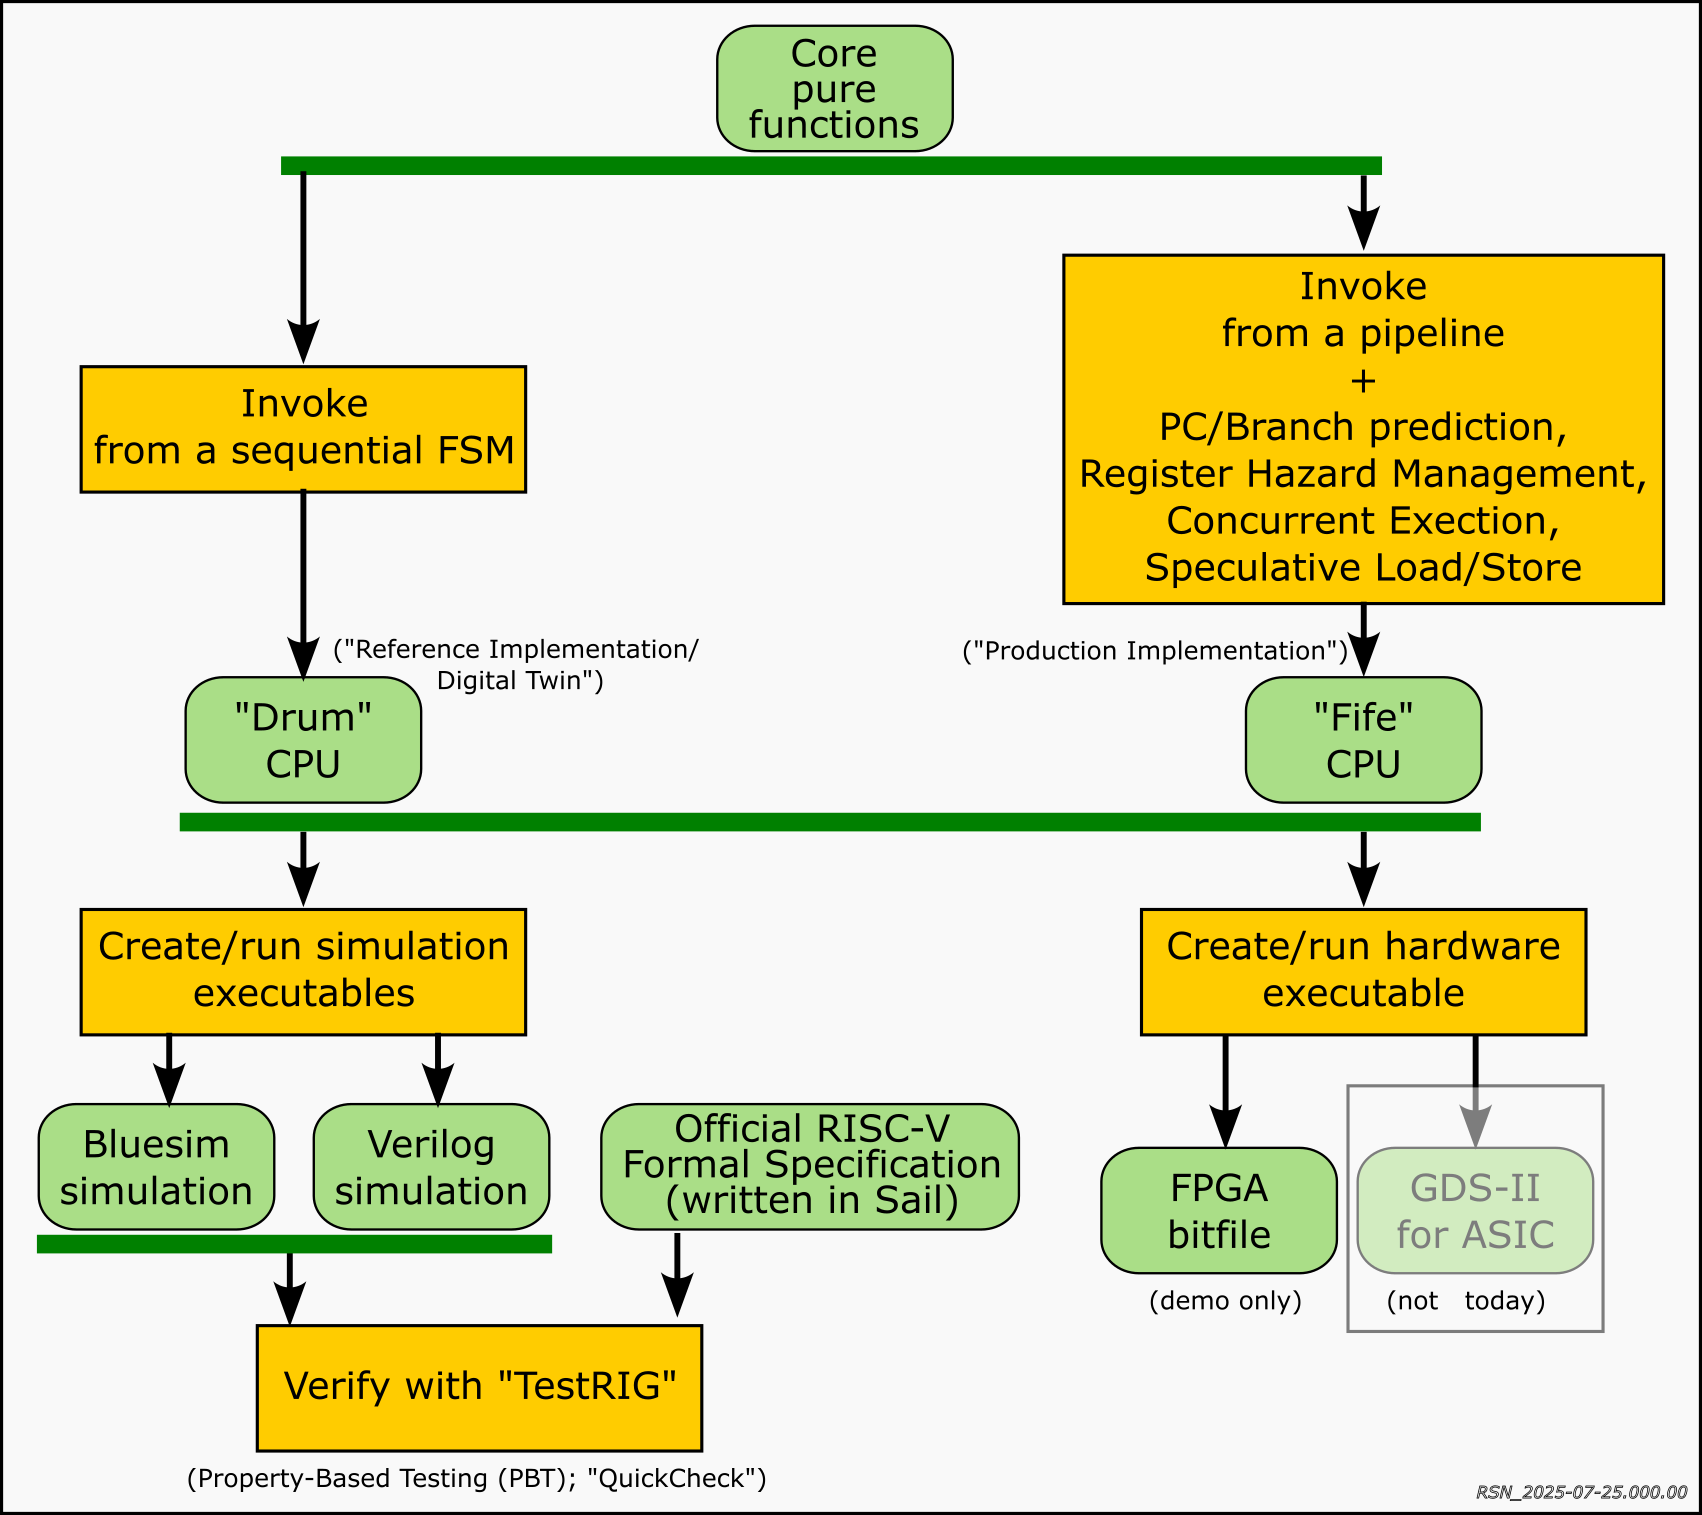
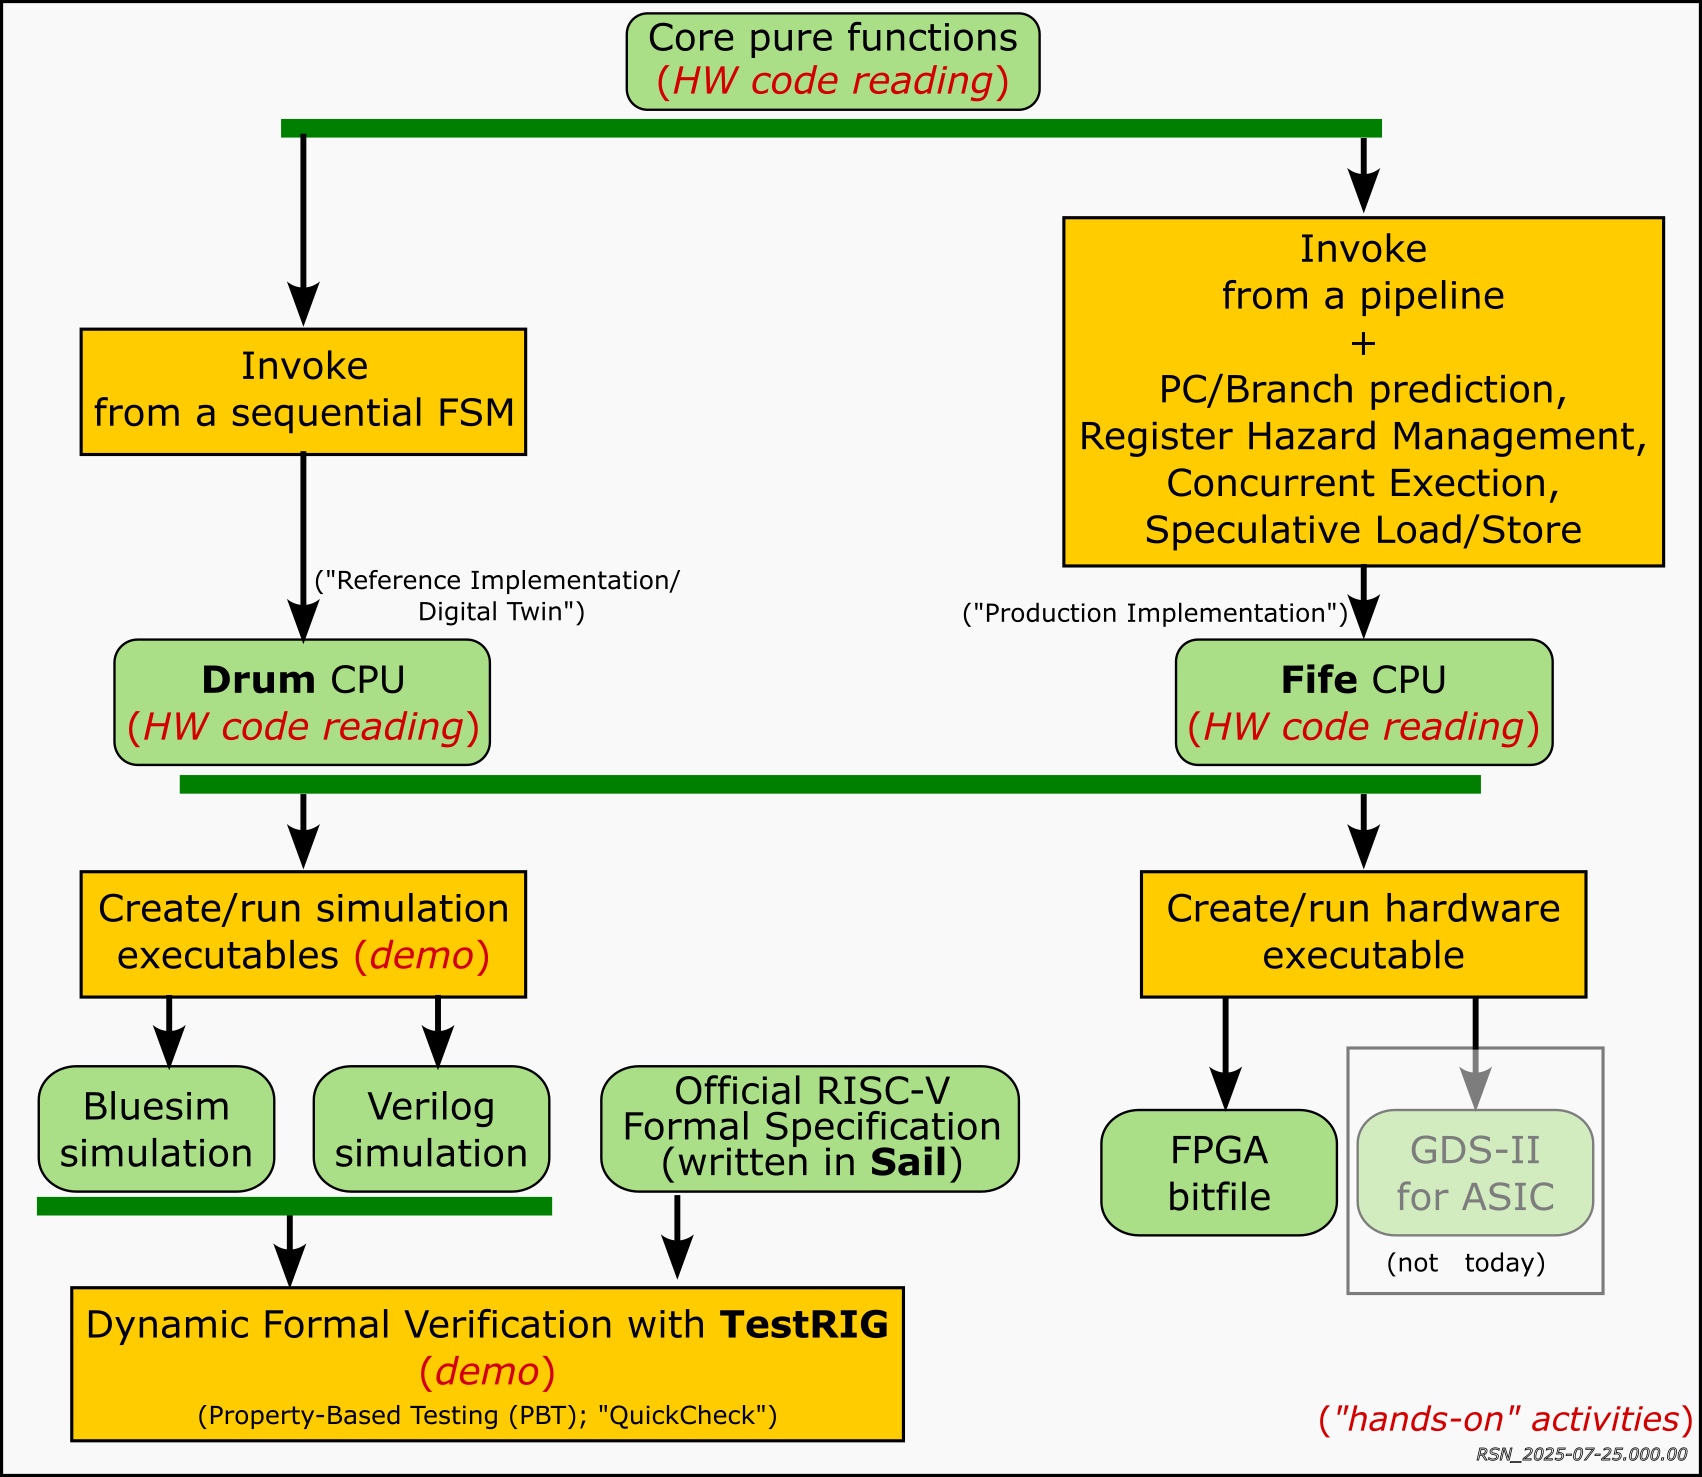
Small stylistic tweaks to documentation: README, Resourcs

diff --git a/Doc/Resources.html b/Doc/Resources.html
@@ -441,8 +441,8 @@ body.book #toc,body.book #preamble,body.book h1.sect0,body.book .sect1>h2{page-b
 <h1>Resources for tutorial "Learn to Design and Verify a 6-stage pipelined RISC-V CPU"</h1>
 <div class="details">
 <span id="author" class="author">(c) Rishiyur S. Nikhil, Bluespec, Inc. 2025</span><br>
-<span id="revnumber">version v0.910,</span>
-<span id="revdate">2025-08-27</span>
+<span id="revnumber">version v0.920,</span>
+<span id="revdate">2025-10-14</span>
 </div>
 </div>
 <div id="content">
@@ -459,8 +459,8 @@ body.book #toc,body.book #preamble,body.book h1.sect0,body.book .sect1>h2{page-b
 <p>This document&#8217;s source is <code>Resources.adoc</code> and can be read as-is in a
 text-editor or terminal.  It can also be processed with the free,
 open-source <code>asciidoctor</code> tool into <code>Resources.html</code> and viewed in any
-browser.  GitHub will automatically process and display .adoc
-documents.</p>
+browser.<br>
+On GitHub, <code>.adoc</code> files are rendered automatically.</p>
 </div>
 </td>
 </tr>
@@ -470,7 +470,7 @@ documents.</p>
 <div id="toctitle" class="title">Contents</div>
 <ul class="sectlevel1">
 <li><a href="#_introduction">1. Introduction</a></li>
-<li><a href="#sec_book_repo">2. Drum and Fife hardware design source code, textbook, and more</a></li>
+<li><a href="#sec_book_repo">2. <strong>Fife</strong> and <strong>Drum</strong> hardware design source code, textbook, and more</a></li>
 <li><a href="#sec_bsc">3. <strong>bsc</strong> compiler (for Bluespec <strong>BSV</strong> High-Level Hardware Description Language)</a></li>
 <li><a href="#sec_verilator">4. Verilog simulation with <strong>verilator</strong> or other Verilog simulator tool</a>
 <ul class="sectlevel2">
@@ -486,7 +486,7 @@ documents.</p>
 <li><a href="#_building_qcvengine_with_the_ghc_haskell_compiler">5.2.2. Building <strong>QCVEngine</strong> with the <strong>ghc</strong> Haskell compiler</a></li>
 </ul>
 </li>
-<li><a href="#_official_sail_risc_v_formal_specification">5.3. Official <strong>Sail RISC-V Formal Specification</strong></a>
+<li><a href="#_official_risc_v_formal_specification_written_in_sail">5.3. Official <strong>RISC-V Formal Specification</strong> (written in <strong>Sail</strong>)</a>
 <ul class="sectlevel3">
 <li><a href="#_installing_the_ocaml_system_including_the_sail_compiler">5.3.1. Installing the <strong>OCaml</strong> system (including the <strong>Sail</strong> compiler)</a></li>
 <li><a href="#_building_sail_risc_v_formal_specification_simulator_with_sail_compiler">5.3.2. Building <strong>Sail RISC-V Formal Specification</strong> simulator with <strong>Sail</strong> compiler</a></li>
@@ -574,29 +574,29 @@ do more of the "hands-on" activities:</p>
 <div class="olist arabic">
 <ol class="arabic">
 <li>
-<p><code>git clone</code> a repo for Drum and Fife code (Section
-<a href="#sec_book_repo">Drum and Fife hardware design source code, textbook, and more</a>), textbook, etc.</p>
+<p><code>git clone</code> a repo for <strong>Fife</strong> and <strong>Drum</strong> code (Section
+<a href="#sec_book_repo"><strong>Fife</strong> and <strong>Drum</strong> hardware design source code, textbook, and more</a>), textbook, etc.</p>
 <div class="paragraph">
-<p>This enables you to read all Drum and Fife hardware design code.</p>
+<p>This enables you to read all <strong>Fife</strong> and <strong>Drum</strong> hardware design code.</p>
 </div>
 </li>
 <li>
 <p>Download and install the <strong>bsc</strong> compiler (Section <a href="#sec_bsc"><strong>bsc</strong> compiler (for Bluespec <strong>BSV</strong> High-Level Hardware Description Language)</a>).</p>
 <div class="paragraph">
-<p>This enables you to compile and run Bluesim simulations of Drum and Fife.</p>
+<p>This enables you to compile and run Bluesim simulations of <strong>Fife</strong> and <strong>Drum</strong>.</p>
 </div>
 </li>
 <li>
 <p><code>git clone</code> and install <strong>TestRIG</strong> (Section <a href="#sec_testrig"><strong>TestRIG</strong> tool for property-based testing of RISC-V CPUs</a>).</p>
 <div class="paragraph">
-<p>This enables using <strong>TestRIG</strong> on Drum and Fife using Bluesim simulation.</p>
+<p>This enables using <strong>TestRIG</strong> on <strong>Fife</strong> and <strong>Drum</strong> using Bluesim simulation.</p>
 </div>
 </li>
 <li>
 <p><code>git clone</code> and install <strong>Verilator</strong> (Section
 <a href="#sec_verilator">Verilog simulation with <strong>verilator</strong> or other Verilog simulator tool</a>).</p>
 <div class="paragraph">
-<p>This enables you to compile and run Verilog simulations of Drum and Fife, and <strong>TestRIG</strong>.</p>
+<p>This enables you to compile and run Verilog simulations of <strong>Fife</strong> and <strong>Drum</strong>, and <strong>TestRIG</strong>.</p>
 </div>
 </li>
 </ol>
@@ -604,7 +604,7 @@ do more of the "hands-on" activities:</p>
 </div>
 </div>
 <div class="sect1">
-<h2 id="sec_book_repo">2. Drum and Fife hardware design source code, textbook, and more</h2>
+<h2 id="sec_book_repo">2. <strong>Fife</strong> and <strong>Drum</strong> hardware design source code, textbook, and more</h2>
 <div class="sectionbody">
 <div class="paragraph">
 <p>Please <code>git clone</code> the following repository to your laptop:</p>
@@ -618,19 +618,19 @@ do more of the "hands-on" activities:</p>
 <div class="ulist">
 <ul>
 <li>
-<p>All the hardware design source code for the Drum and Fife CPUs (in
+<p>All the hardware design source code for the <strong>Fife</strong> and <strong>Drum</strong> CPUs (in
 the <code>Code/src_*</code>) directories.</p>
 </li>
 <li>
 <p>Makefiles to build standalone Bluesim and Verilator simulations of
-Drum and Fife, ready to execute RISC-V RV32i binaries.</p>
+<strong>Fife</strong> and <strong>Drum</strong>, ready to execute RISC-V RV32i binaries.</p>
 </li>
 <li>
 <p>Documentation in the <code>Doc/</code> directory.</p>
 </li>
 <li>
 <p>Additional source code and Makefile in the <code>TestRIG/</code> directory
-providing a wrapper for Drum and Fife to be plugged into <strong>TestRIG</strong>.</p>
+providing a wrapper for <strong>Fife</strong> and <strong>Drum</strong> to be plugged into <strong>TestRIG</strong>.</p>
 </li>
 <li>
 <p>A 300 page PDF textbook: <code>Book_BLang_RISCV.pdf</code></p>
@@ -648,10 +648,10 @@ graduate-level university course.</p>
 <h2 id="sec_bsc">3. <strong>bsc</strong> compiler (for Bluespec <strong>BSV</strong> High-Level Hardware Description Language)</h2>
 <div class="sectionbody">
 <div class="paragraph">
-<p>This tool is sufficient for compiling and building the Drum and Fife
+<p>This tool is sufficient for compiling and building the <strong>Fife</strong> and <strong>Drum</strong>
 CPUs into a native-code simulator ("Bluesim") and running them. It is
 also sufficient for compiling and building the <strong>TestRIG</strong> wrapper for
-Drum and Fife.</p>
+<strong>Fife</strong> and <strong>Drum</strong>.</p>
 </div>
 <div class="paragraph">
 <p>Bluesim is 100% cycle-accurate to Verilog simulation, and can also
@@ -683,8 +683,8 @@ will need to install the <strong>ghc</strong> Haskell compiler (Section <a href=
 <h2 id="sec_verilator">4. Verilog simulation with <strong>verilator</strong> or other Verilog simulator tool</h2>
 <div class="sectionbody">
 <div class="paragraph">
-<p>This section is needed if you plan use Verilog simulation for Drum and
-Fife, and can be skipped otherwise.</p>
+<p>This section is needed if you plan use Verilog simulation for <strong>Fife</strong>
+and <strong>Drum</strong>, and can be skipped otherwise.</p>
 </div>
 <div class="paragraph">
 <p>All simulations in this tutorial can be performed with Bluesim, and
@@ -696,13 +696,13 @@ therefore Verilog simulation is not strictly necessary.  However:</p>
 <p>You may wish to examine <strong>bsc</strong>-generated Verilog.</p>
 </li>
 <li>
-<p>You wish to plug Drum or Fife Verilog into your own Verilog SoC.</p>
+<p>You wish to plug <strong>Fife</strong> or <strong>Drum</strong> Verilog into your own Verilog SoC.</p>
 </li>
 <li>
-<p>You wish to go further with Drum or Fife Verilog into an FPGA or ASIC flow.</p>
+<p>You wish to go further with <strong>Drum</strong> or <strong>Fife</strong> Verilog into an FPGA or ASIC flow.</p>
 </li>
 <li>
-<p>You may wish to take Drum or Fife Verilog through other
+<p>You may wish to take <strong>Fife</strong> or <strong>Drum</strong> Verilog through other
 Verilog-based tools (such as formal verification or other analysis
 tools).</p>
 </li>
@@ -779,7 +779,7 @@ vendor (which you may already have).</p>
 <div class="paragraph">
 <p>The actual Verilog generated is the same for all of them.  But our
 code imports some C code for the surrounding "SoC" environment around
-the Drum and Fife CPUs, and different Verilog simulators may use
+the <strong>Fife</strong> and <strong>Drum</strong> CPUs, and different Verilog simulators may use
 different conventions for importing C; the <code>-vsim &lt;simulator&gt;</code> flag
 tells <strong>bsc</strong> to use the appropriate C-import mechanism for each
 simulator.  Verilator uses standard SystemVerilog DPI mechanism, and
@@ -838,7 +838,7 @@ that can help you to install Python.</p>
 <div class="paragraph">
 <p><strong>TestRIG</strong> uses a sub-program called <strong>QCVengine</strong> ("QuickCheck
 Verification Engine") to generate random test programs for execution
-on Drum and Fife and Sail, and to verify the responses. <strong>QCVengine</strong> is
+on <strong>Fife</strong> and <strong>Drum</strong> and <strong>Sail</strong>, and to verify the responses. <strong>QCVengine</strong> is
 written in Haskell, and uses the famous "QuickCheck" library for test
 generation and manipulation.  Thus, to build this, one needs to
 install the <strong>ghc</strong> Haskell compiler.</p>
@@ -868,16 +868,17 @@ compiler can be found at:</p>
 </div>
 </div>
 <div class="sect2">
-<h3 id="_official_sail_risc_v_formal_specification">5.3. Official <strong>Sail RISC-V Formal Specification</strong></h3>
+<h3 id="_official_risc_v_formal_specification_written_in_sail">5.3. Official <strong>RISC-V Formal Specification</strong> (written in <strong>Sail</strong>)</h3>
 <div class="paragraph">
 <p><strong>TestRIG</strong> can compare any two RISC-V implementations (simulations),
 "A" and "B".  In this tutorial, for "A" we use the official <strong>Sail
 RISC-V ISA Formal Specification</strong> which is compiled into an executable
-(simulation).  For "B" we use Drum or Fife in a wrapper for <strong>TestRIG</strong>.</p>
+(simulation).  For "B" we use <strong>Fife</strong> or <strong>Drum</strong> in a wrapper for
+<strong>TestRIG</strong>.</p>
 </div>
 <div class="paragraph">
 <p>The <strong>Sail RISC-V ISA Formal Specification</strong>, as its name implies, is
-written in the <strong>Sail</strong> language for formal ISA specifications. (Sail
+written in the <strong>Sail</strong> language for formal ISA specifications. (<strong>Sail</strong>
 has also been used for formal specs of other ISAs, such as ARM, POWER,
 x86, etc.)</p>
 </div>
@@ -885,9 +886,9 @@ x86, etc.)</p>
 <p>The <strong>Sail RISC-V ISA Formal Specification</strong> can be compiled into an
 executable, thereby providing a reference simulator for the RISC-V
 ISA.  The <strong>Sail</strong> compiler is written in <strong>OCaml</strong>, and is built as part
-of installing the <strong>OCaml</strong> system.  Thus, to build the Sail RISC-V
+of installing the <strong>OCaml</strong> system.  Thus, to build the <strong>Sail</strong> RISC-V
 simulator, one needs to install the <strong>OCaml</strong> system which also installs
-the Sail compiler.</p>
+the <strong>Sail</strong> compiler.</p>
 </div>
 <div class="sect3">
 <h4 id="_installing_the_ocaml_system_including_the_sail_compiler">5.3.1. Installing the <strong>OCaml</strong> system (including the <strong>Sail</strong> compiler)</h4>
@@ -943,9 +944,9 @@ confirm like this:</p>
 <p>You can practice building the simulator now, using the following command.</p>
 </div>
 <div class="paragraph">
-<p>However, we&#8217;ll need to edit the Sail code to configure it to support
-the same RISC-V configuration choices as Fife/Drum.  We will provide a
-patch for this edit closer to the date of the tutorial.</p>
+<p>However, we&#8217;ll need to edit the <strong>Sail</strong> code to configure it to support
+the same RISC-V configuration choices as <strong>Fife</strong> and <strong>Drum</strong>.  We will
+provide a patch for this edit closer to the date of the tutorial.</p>
 </div>
 <div class="paragraph">
 <p>Before the tutorial, you will need to apply the provided patch, and rebuild.</p>
@@ -971,8 +972,8 @@ standard place known to <strong>TestRIG</strong>.</p>
 </div>
 <div id="footer">
 <div id="footer-text">
-Version v0.910<br>
-Last updated 2025-08-27 21:23:46 -0400
+Version v0.920<br>
+Last updated 2025-10-14 14:44:08 -0400
 </div>
 </div>
 </body>

diff --git a/README.html b/README.html
@@ -5,7 +5,7 @@
 <meta http-equiv="X-UA-Compatible" content="IE=edge">
 <meta name="viewport" content="width=device-width, initial-scale=1.0">
 <meta name="generator" content="Asciidoctor 2.0.23">
-<meta name="keywords" content="Bluespec, B-Lang, BSV, BH, RISC-V, Pipelined CPU, HDL, HLHDL, High Level Hardware Design Language, Fife, Drum">
+<meta name="keywords" content="Bluespec, B-Lang, BSV, BH, RISC-V, Pipelined CPU, HDL, HLHDL, High Level Hardware Design Language">
 <meta name="author" content="(c) Rishiyur S. Nikhil, Bluespec, Inc. 2025">
 <title>Learn to Design and Verify a 6-stage pipelined RISC-V CPU</title>
 <link rel="stylesheet" href="https://fonts.googleapis.com/css?family=Open+Sans:300,300italic,400,400italic,600,600italic%7CNoto+Serif:400,400italic,700,700italic%7CDroid+Sans+Mono:400,700">
@@ -441,8 +441,8 @@ body.book #toc,body.book #preamble,body.book h1.sect0,body.book .sect1>h2{page-b
 <h1>Learn to Design and Verify a 6-stage pipelined RISC-V CPU</h1>
 <div class="details">
 <span id="author" class="author">(c) Rishiyur S. Nikhil, Bluespec, Inc. 2025</span><br>
-<span id="revnumber">version v0.800,</span>
-<span id="revdate">2025-08-15</span>
+<span id="revnumber">version v0.900,</span>
+<span id="revdate">2025-10-14</span>
 </div>
 </div>
 <div id="content">
@@ -457,8 +457,8 @@ body.book #toc,body.book #preamble,body.book h1.sect0,body.book .sect1>h2{page-b
 <p>This document&#8217;s source is <code>README.adoc</code> and can be read as-is in a
 text-editor or terminal.  It can also be processed with the free,
 open-source <code>asciidoctor</code> tool into <code>README.html</code> and viewed in any
-browser.  GitHub will automatically process and display .adoc
-documents.</p>
+browser.<br>
+On GitHub, <code>.adoc</code> files are rendered automatically.</p>
 </div>
 </td>
 </tr>
@@ -502,8 +502,9 @@ tutorial date).</p>
 </li>
 <li>
 <p>Instructions for acquiring and installing all resources/tools
-(<a href="Doc/Resources.adoc">adoc</a>,<a href="Doc/Resources.html">html</a>) needed
-for "hands-on" participation (all are free and open-source).</p>
+needed
+for "hands-on" participation (all are free and open-source)
+(<a href="Doc/Resources.adoc">adoc version</a>) (<a href="Doc/Resources.html">html version</a>)</p>
 <div class="admonitionblock important">
 <table>
 <tr>
@@ -553,8 +554,8 @@ verifying on your own laptop.</p>
 </div>
 <div id="footer">
 <div id="footer-text">
-Version v0.800<br>
-Last updated 2025-09-16 20:25:23 -0400
+Version v0.900<br>
+Last updated 2025-10-14 14:24:49 -0400
 </div>
 </div>
 </body>
